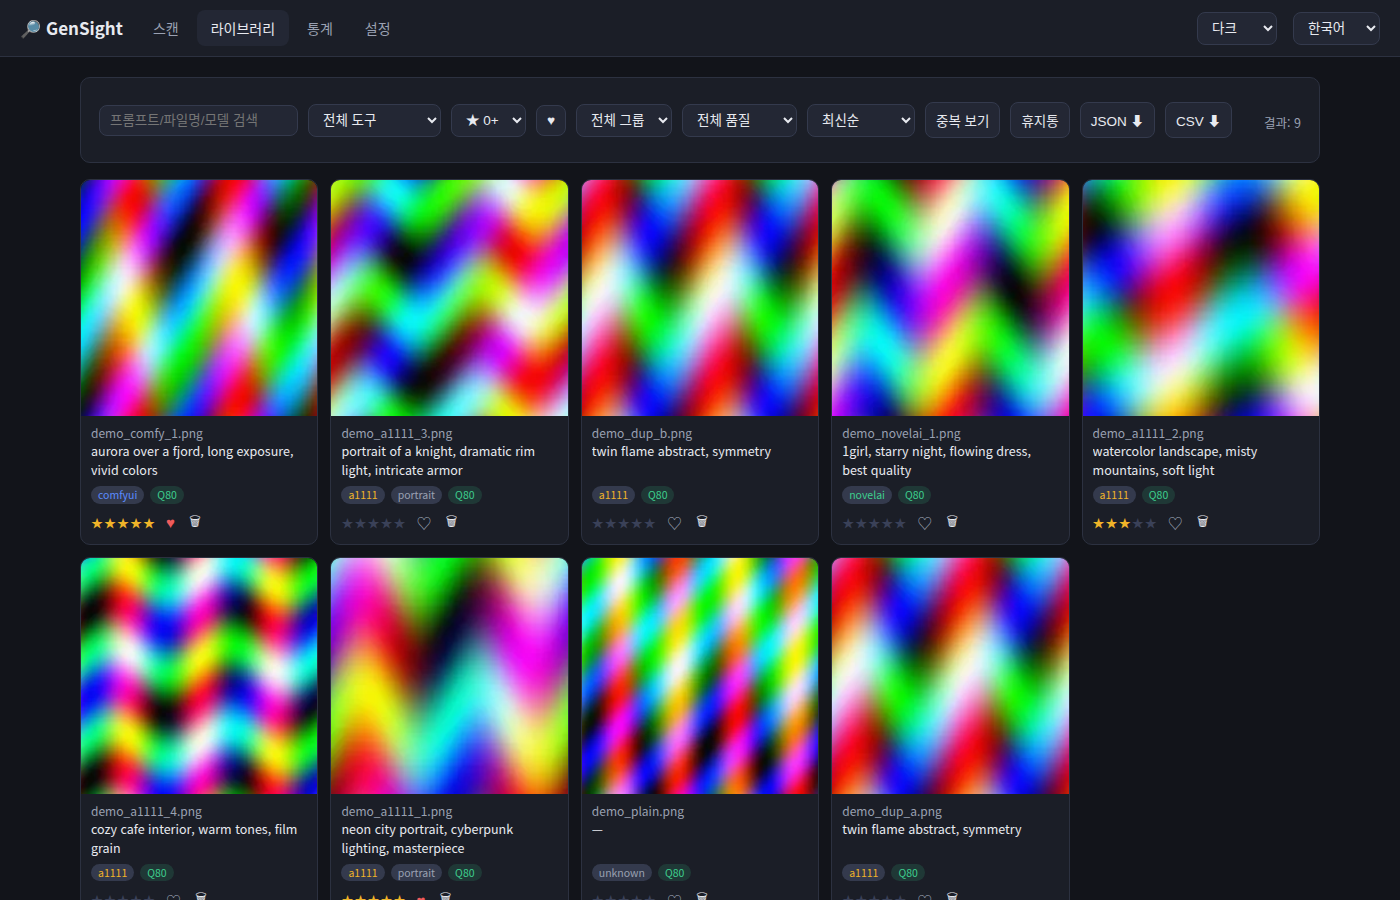
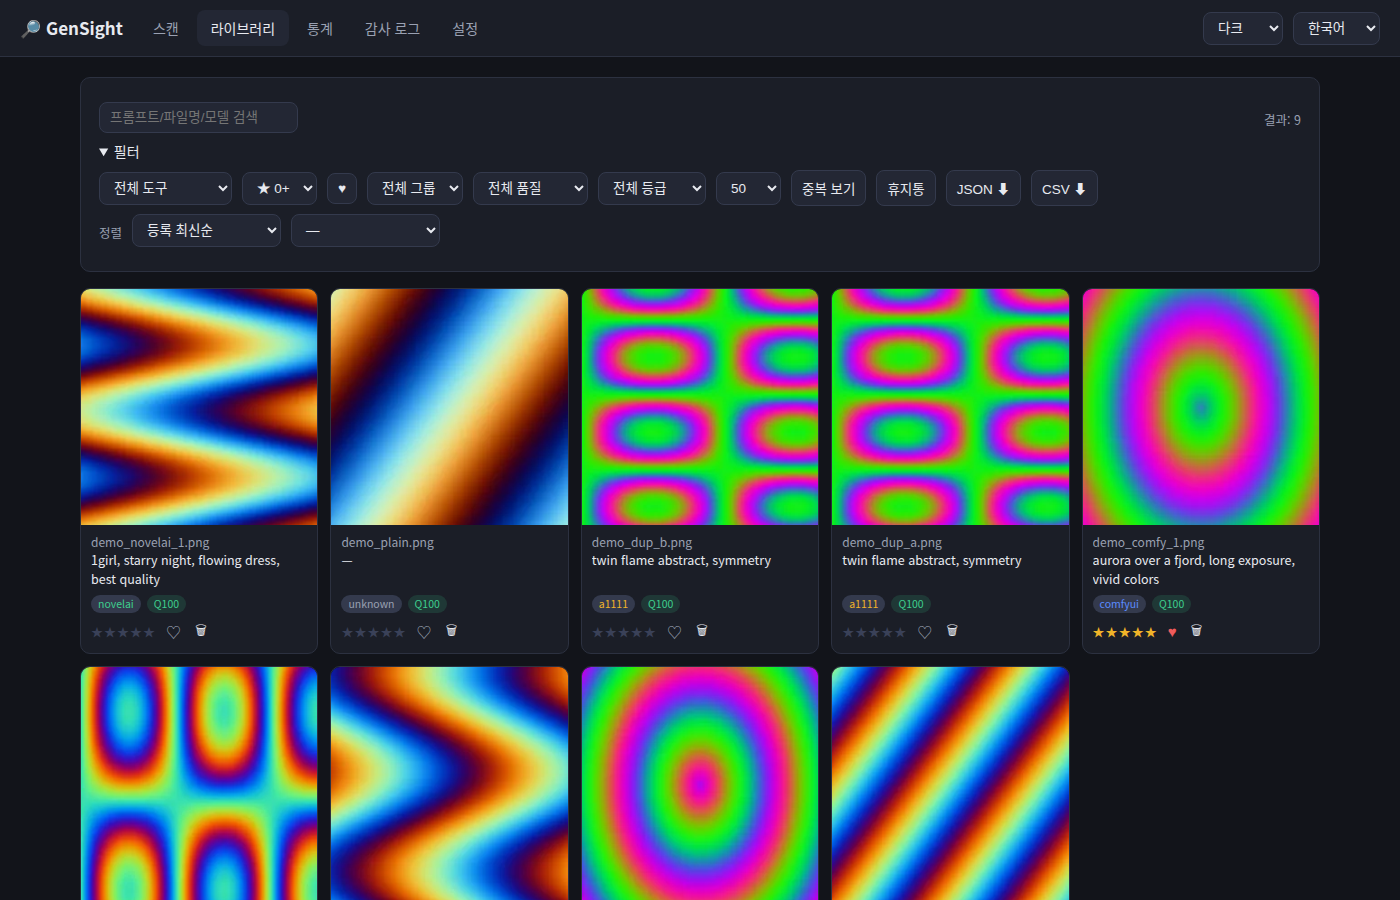
Bring the README back in line with what the app does
The README had drifted a long way. It described a four-tab app with four copy
formats and five Python modules; there are five tabs, six copy formats and
twenty-seven modules. None of the last several releases were mentioned at all:
content ratings and the NSFW blur, the restricted user role, the audit log,
multi-level sort and pagination, themes, the scoped record purge and its
archive, the mobile layout, or LoRA extraction. "Usage" still pointed at a
결과 tab that no longer exists.

Also fixed a claim that was simply false: the licence section said MIT but the
repository had no LICENSE file. Added one.

Docker instructions now lead with the published images, since building from
source is no longer the only option, and cover the ML and CUDA 13 variants plus
the cuda13 compose profile. Every tag listed was verified against the registry,
and every relative link was checked to resolve.

Screenshots were regenerated. The old set was from 25 July and predates the
mobile work, the filter disclosure, the settings accordion and the audit tab —
it showed an app with four tabs. As before they use synthetic gradient art with
fabricated metadata rather than anything from a real library, and they were
captured against an isolated preview instance with its own data directory. The
demo set now includes a ComfyUI graph with a LoraManager node holding two
applied and three switched-off LoRAs, so the detail shot demonstrates the new
[…]

diff --git a/README.md b/README.md
@@ -9,17 +9,31 @@ AI 생성 이미지 메타데이터 추출 WebUI — AI-generated image metadata
 ## Features
 
 - **메타데이터 추출**: A1111/Forge/SD.Next(`parameters`), ComfyUI(워크플로 그래프 파싱), NovelAI, JPEG/WebP EXIF
+- **적용된 LoRA 추출**: A1111 인라인 `<lora:…>` 태그와 ComfyUI 로더(LoraManager / rgthree
+  Power Lora Loader / easy loraStack). **활성 플래그로 판정**하므로 꺼둔 LoRA는 제외되고,
+  꺼진 개수는 `Lora (off)`로 따로 표시합니다
 - **영구 라이브러리 (SQLite)**: 스캔 결과가 `data/gensight.db`에 저장되어 재시작 후에도 유지, 증분 재스캔
 - **폴더 자동 감시**: watchdog 실시간 감지 + 주기적 폴링 폴백, 감시 폴더별 주기 설정
 - **유사/중복 검색**: perceptual hash(dHash) 기반 — 중복 그룹 보기, 상세에서 유사 이미지 스트립
 - **프롬프트 통계**: Positive/Negative 토큰 빈도, 모델/샘플러 사용 통계 대시보드
 - **평점·즐겨찾기·그룹**: ★1–5 평점, ♥ 즐겨찾기, 문자열/정규식 규칙 기반 그룹 자동 분류
+- **품질 판별**: 블러/노출/대비/해상도 휴리스틱 + 생성 설정 검사(낮은 Steps, 극단적 CFG) → 0–100 점수
+- **콘텐츠 등급 (후방주의)**: PG / PG-13 / R / X 분류, R·X 썸네일 블러 처리 및 등급 필터
+- **정렬·페이지네이션**: 1·2·3순위 다중 정렬(등록일 / 파일 날짜 / 평점 / 품질 / 이름 / 용량), 페이지 단위 조회
 - **WD Tagger 자동 태깅** (선택 설치): onnxruntime 기반, 설정된 멀티 GPU에 작업 분배
+- **기록 정리 + 아카이브**: 경로 단위로 라이브러리 기록만 정리 — 파일은 건드리지 않고,
+  미리보기로 확인한 뒤 아카이브로 옮겨 복구할 수 있습니다. 재스캔 시 태그·품질이 재계산 없이 부활
+- **휴지통 / 파일 정리**: 복구 지원 휴지통, 템플릿 기반 파일 이동(`{model}/{date}` 등)
+- **인증 + 역할**: 선택 활성화(scrypt + 세션). 일반 사용자 역할은 설정·스캔·경로 정보에
+  접근할 수 없어 외부 노출용으로 배포할 수 있습니다
+- **감사 로그**: 상태를 바꾼 동작(스캔·삭제·정리·계정·설정)의 영구 기록, CSV 내보내기
 - **MCP 서버**: Claude Code 등 AI 클라이언트에서 라이브러리 검색/통계 조회 ([docs/mcp.md](docs/mcp.md))
 - **대량 이미지 대응**: 작업(스캔)별 워커 수 조정, 동시 작업 수 제한, 백그라운드 작업 큐 + 진행률/취소
 - **단일 이미지 분석**: 드래그 & 드롭 / 클릭 업로드로 즉시 분석
-- **게시판용 복사**: JSON / Markdown / BBCode / 프롬프트만 — 썸네일 이미지 포함 복사 지원
-- **내보내기**: 스캔 결과 전체를 JSON / CSV로 다운로드
+- **게시판용 복사**: 보기 / JSON / Markdown / BBCode / 아카라이브 / 프롬프트만 — 표 형식 보기와
+  이미지 포함 복사 지원
+- **내보내기**: 라이브러리 전체 또는 필터 결과를 JSON / CSV로 다운로드
+- **테마 + 모바일**: 다크 / 라이트 / Nord 테마, 폰 화면 대응(560px 이하 전용 레이아웃)
 - **다국어**: 한국어 / English / 日本語 (웹 UI에서 즉시 전환)
 
 ## Quick start (venv)
@@ -50,12 +64,32 @@ uvicorn app.main:app --port 8090
 
 ## Docker
 
+Docker Hub에 이미지가 올라가 있어 빌드 없이 바로 실행할 수 있습니다.
+
 ```bash
-docker compose up --build
+docker run --rm -p 8090:8090 \
+  -v gensight-data:/opt/gensight/data \
+  -v /path/to/images:/images:ro \
+  jimotmi/imagen-curation:0.1.0
+```
+
+| 태그 | 내용 | 압축 크기 |
+|---|---|---|
+| `0.1.0`, `latest` | CPU 전용 (`python:3.12-slim`) | 74 MB |
+| `0.1.0-ml` | WD Tagger 포함 (CPU 추론 가능) | 1.9 GB |
+| `0.1.0-cuda13` | CUDA 13 호스트용 GPU 이미지 | 2.3 GB |
+
+소스에서 빌드하려면:
+
+```bash
+docker compose up --build                      # CPU
+docker compose --profile cuda13 up --build     # GPU (CUDA 13)
+docker build --build-arg WITH_ML=true -t gensight:ml .   # 태거 포함 CPU 이미지
 ```
 
 이미지 디렉토리는 `docker-compose.yml`의 volumes에 read-only로 마운트한 뒤,
-웹 UI 설정에서 컨테이너 내부 경로(`/images/...`)를 등록하세요.
+웹 UI 설정에서 컨테이너 내부 경로(`/images/...`)를 등록하세요. 라이브러리 DB와
+썸네일은 `/opt/gensight/data` 볼륨에 남으므로 컨테이너를 교체해도 유지됩니다.
 
 ## Screenshots
 
@@ -65,12 +99,16 @@ docker compose up --build
 ### 상세 보기 — syntax 하이라이트, 게시판용 복사(JSON/Markdown/BBCode/표)
 ![Detail](docs/images/detail.png)
 
-### 스캔 · 통계 · 설정
+### 스캔 · 통계
 | 스캔 | 통계 |
 |---|---|
 | ![Scan](docs/images/scan.png) | ![Stats](docs/images/stats.png) |
 
+### 설정 — 기록 정리·아카이브, 워커, 감시
 ![Settings](docs/images/settings.png)
+
+### 감사 로그 — 상태를 바꾼 동작의 영구 기록
+![Audit](docs/images/audit.png)
 
 ## Documentation
 
@@ -78,12 +116,18 @@ docker compose up --build
 - [사용자 가이드](docs/user-guide.md)
 - [유지보수 가이드](docs/maintenance.md)
 - [API 레퍼런스](docs/api.md)
+- [MCP 서버](docs/mcp.md)
+- [아키텍처 / 설계 결정](docs/architecture.md)
 
 ## Usage
 
-1. **설정** 탭에서 이미지 디렉토리를 추가합니다.
-2. **스캔** 탭에서 디렉토리를 선택하고 워커 수를 조정해 스캔을 시작합니다.
-3. **결과** 탭에서 이미지를 클릭 → 원하는 형식으로 복사합니다.
+1. **스캔** 탭에 디렉토리 경로를 직접 입력해 바로 스캔합니다. 자주 쓰는 경로는
+   **설정** 탭에 등록해 두면 자동완성으로 제안됩니다.
+2. **라이브러리** 탭에서 검색·필터·정렬로 찾습니다.
+3. 이미지를 클릭 → 원하는 형식으로 복사합니다.
+
+딥링크도 지원합니다 — `#library`, `#stats`, `#settings`, `#audit`,
+그리고 `?detail=<파일 경로>`로 상세 팝업을 바로 열 수 있습니다.
 
 출력 예시 (JSON):
 
@@ -96,34 +140,52 @@ docker compose up --build
   "Seed": "166465958725488",
   "Size": "832x1216",
   "Model hash": "5394fca4fa",
-  "Model": "krea2TurboOfficialComfy_krea2TurboNvfp4"
+  "Model": "krea2TurboOfficialComfy_krea2TurboNvfp4",
+  "Lora": "krea2_kgirl_v3 (0.9), krea2filterbypass (1)",
+  "Lora (off)": "3"
 }
 ```
 
 ## Project layout
 
 ```
-app/            FastAPI backend
-  main.py       API routes + static serving
-  metadata.py   A1111 / ComfyUI / NovelAI / EXIF parsers
-  scanner.py    Background scan jobs, worker pools, job queue
-  config.py     JSON settings persistence (data/settings.json)
-  gpu.py        nvidia-smi based GPU detection
-web/            Frontend (vanilla JS, no build step)
-  i18n/         ko / en / ja translations
-tests/          pytest unit tests
-data/           Runtime data: settings, thumbnail cache (gitignored)
+app/                 FastAPI backend
+  main.py            앱 조립: 인증 미들웨어, 예외 핸들러, 라우터 등록, 정적 서빙
+  routers/           API 계층 (system / scan / library / media / trash /
+                     auth / audit_log / admin_library)
+  db.py              SQLite 영속 계층 (WAL, 마이그레이션, 경로 스코프)
+  metadata.py        A1111 / ComfyUI / NovelAI / EXIF 파서 + LoRA 추출
+  scanner.py         스캔 작업 큐 + 워커 풀
+  watcher.py         폴더 감시 (watchdog + 폴링)
+  purge.py           경로 단위 기록 정리 → 아카이브
+  quality.py         품질 휴리스틱, tagger.py  WD Tagger (선택 ML)
+  imghash.py         dHash, stats.py  통계, files.py  휴지통/파일 정리
+  auth.py            scrypt + 세션, audit.py  감사 로그
+  config.py          settings.json 영속, gpu.py  nvidia-smi GPU 감지
+  mcp_server.py      MCP stdio 서버
+web/                 프론트엔드 (바닐라 JS, 빌드 단계 없음)
+  i18n/              ko / en / ja 번역 (키셋·키 순서 동일, 테스트로 강제)
+tests/               pytest (201개)
+data/                런타임 데이터: DB, 설정, 썸네일 캐시 (gitignored)
 ```
 
 ## Settings
 
-모든 설정은 웹 UI **설정** 탭에서 관리되며 `data/settings.json`에 저장됩니다.
+설정은 웹 UI **설정** 탭에서 관리되며 `data/settings.json`에 저장됩니다.
+계정과 라이브러리는 `data/gensight.db`에 있습니다.
 
 | 항목 | 설명 |
 |---|---|
-| 스캔 디렉토리 | 스캔 대상 경로 목록 (이미지 서빙도 이 경로 하위로 제한) |
+| 스캔 디렉토리 | 자주 쓰는 경로 등록 (자동완성 + 이미지 서빙 허용 경로). **등록 해제해도 이미 스캔된 기록은 남습니다** |
+| 기록 정리 | 경로 단위로 라이브러리 기록만 정리 — 미리보기 후 아카이브로 이동, 파일은 삭제하지 않음 |
+| 아카이브 | 정리된 기록의 보관·복구·보존 기간(기본 30일, `0` = 수동 정리만) |
 | 추출 워커 | 메타데이터 추출 스레드 수 (작업별로 재정의 가능) |
 | 동시 작업 수 | 동시에 실행되는 스캔 작업 수 |
+| 폴더 자동 감시 | 감시 경로별 폴링 주기, 하위 폴더 포함 여부 |
+| 그룹 자동 분류 | 문자열/정규식 규칙, 표준 카테고리 프리셋 |
+| 품질 분석 / WD Tagger | 일괄 실행, 스캔 시 자동 분석 여부 |
+| 파일 정리 | 템플릿 기반 이동 (`{model} {tool} {date} {group} {sampler}`) |
+| 인증 / 사용자 관리 | 인증 활성화, 관리자·일반 사용자 계정 |
 | GPU | ML 분석에 사용할 GPU 선택, GPU당 동시 작업 수 |
 
 ## Roadmap
@@ -137,8 +199,14 @@ data/           Runtime data: settings, thumbnail cache (gitignored)
 - [x] MCP 서버 (Claude Code 연동)
 - [x] 품질 판별: 휴리스틱(블러/노출/대비/해상도) + 생성 설정 검사
 - [x] 휴지통(복구 지원) / 템플릿 기반 파일 정리
-- [x] 사용자 인증 (scrypt + 세션, 선택 활성화)
+- [x] 사용자 인증 (scrypt + 세션, 선택 활성화) + 제한 역할
+- [x] 콘텐츠 등급 분류 (PG/PG-13/R/X) + 후방주의 블러
+- [x] 감사 로그 + 워커/동시성 상태 대시보드
+- [x] 경로 단위 기록 정리 + 아카이브(복구·보존 기간)
+- [x] 적용된 LoRA 추출 (A1111 인라인 + ComfyUI 로더 3종)
+- [x] 모바일 레이아웃 (560px 이하 전용 breakpoint)
 - [ ] 신체 파손(anatomy) 검출 — ML detector 플러그인 ([docs/architecture.md](docs/architecture.md) 참조)
+- [ ] LoRA 사용 통계 / LoRA 기준 필터
 - [ ] 프론트엔드 ESM 모듈 분리 → (필요 시) Vue 3 + Vite
 
 ## Tests
@@ -146,6 +214,10 @@ data/           Runtime data: settings, thumbnail cache (gitignored)
 ```bash
 .venv/bin/python -m pytest tests/ -v
 ```
+
+브라우저 없이 UI 회귀를 잡는 테스트가 포함되어 있습니다 — 폰 breakpoint의 형태
+(`tests/test_mobile_layout.py`)와 i18n 마크업 규칙·3개 언어 키셋 일치
+(`tests/test_i18n_markup.py`).
 
 ## License
 
